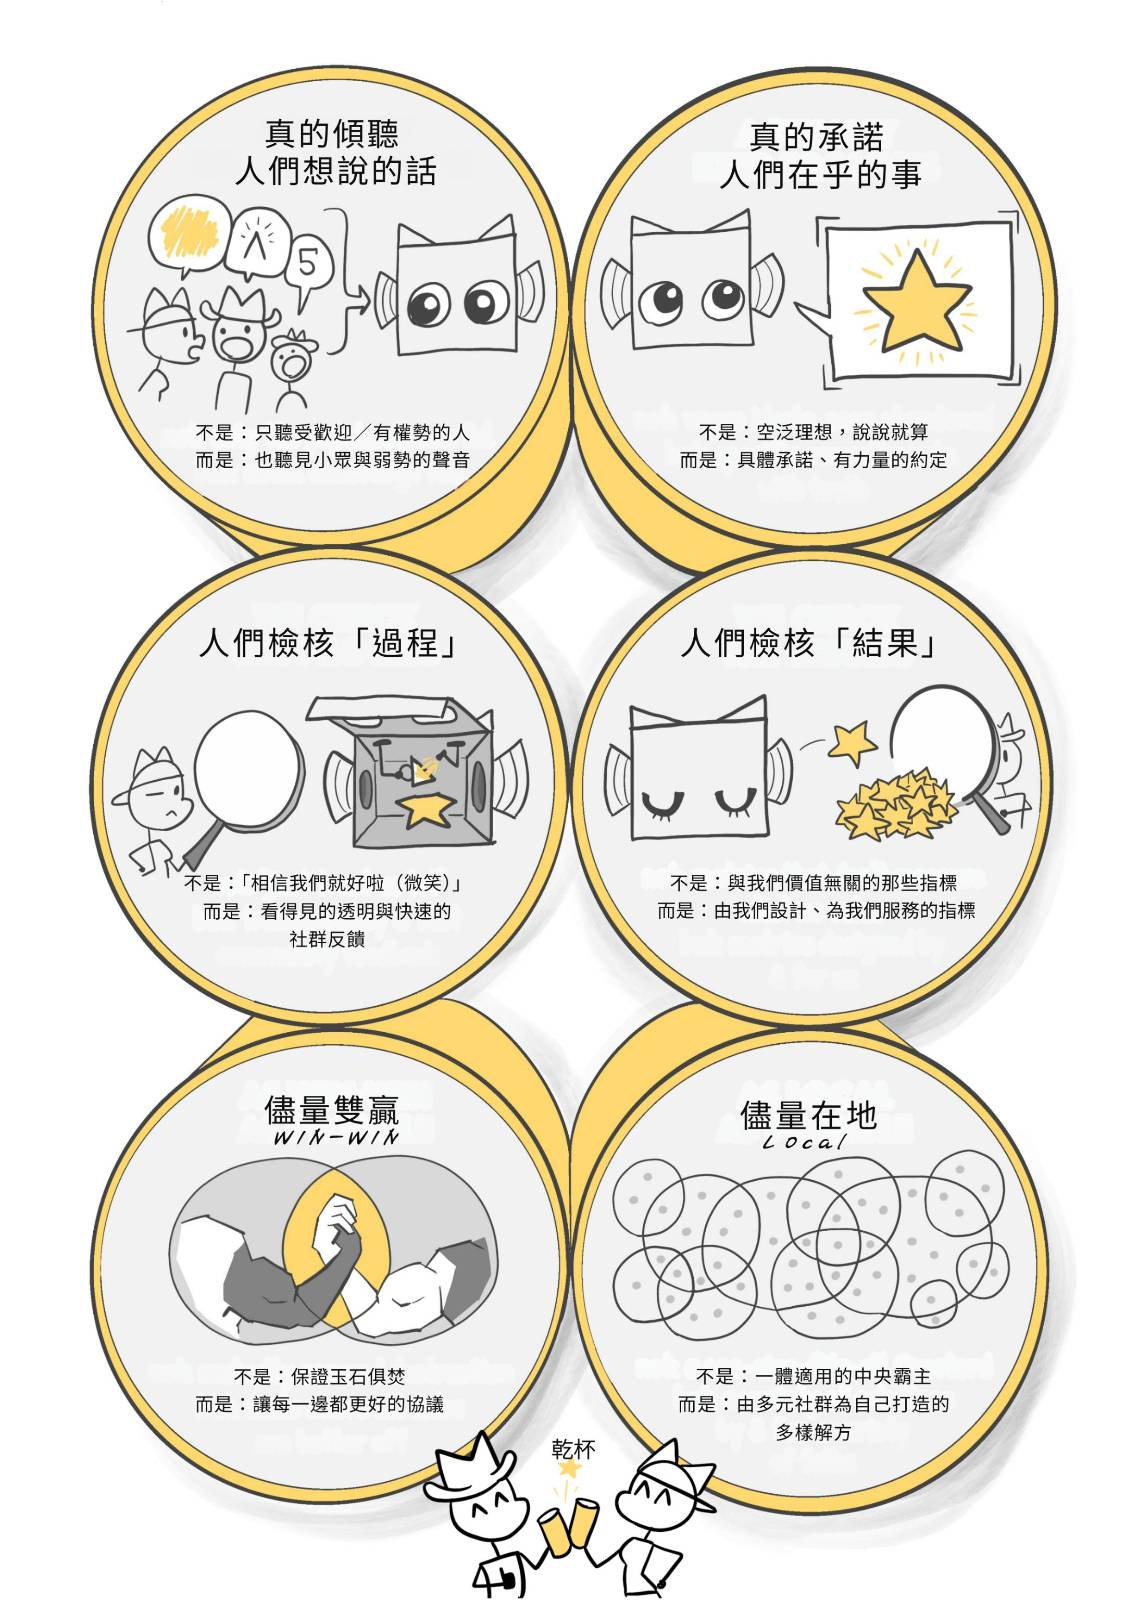
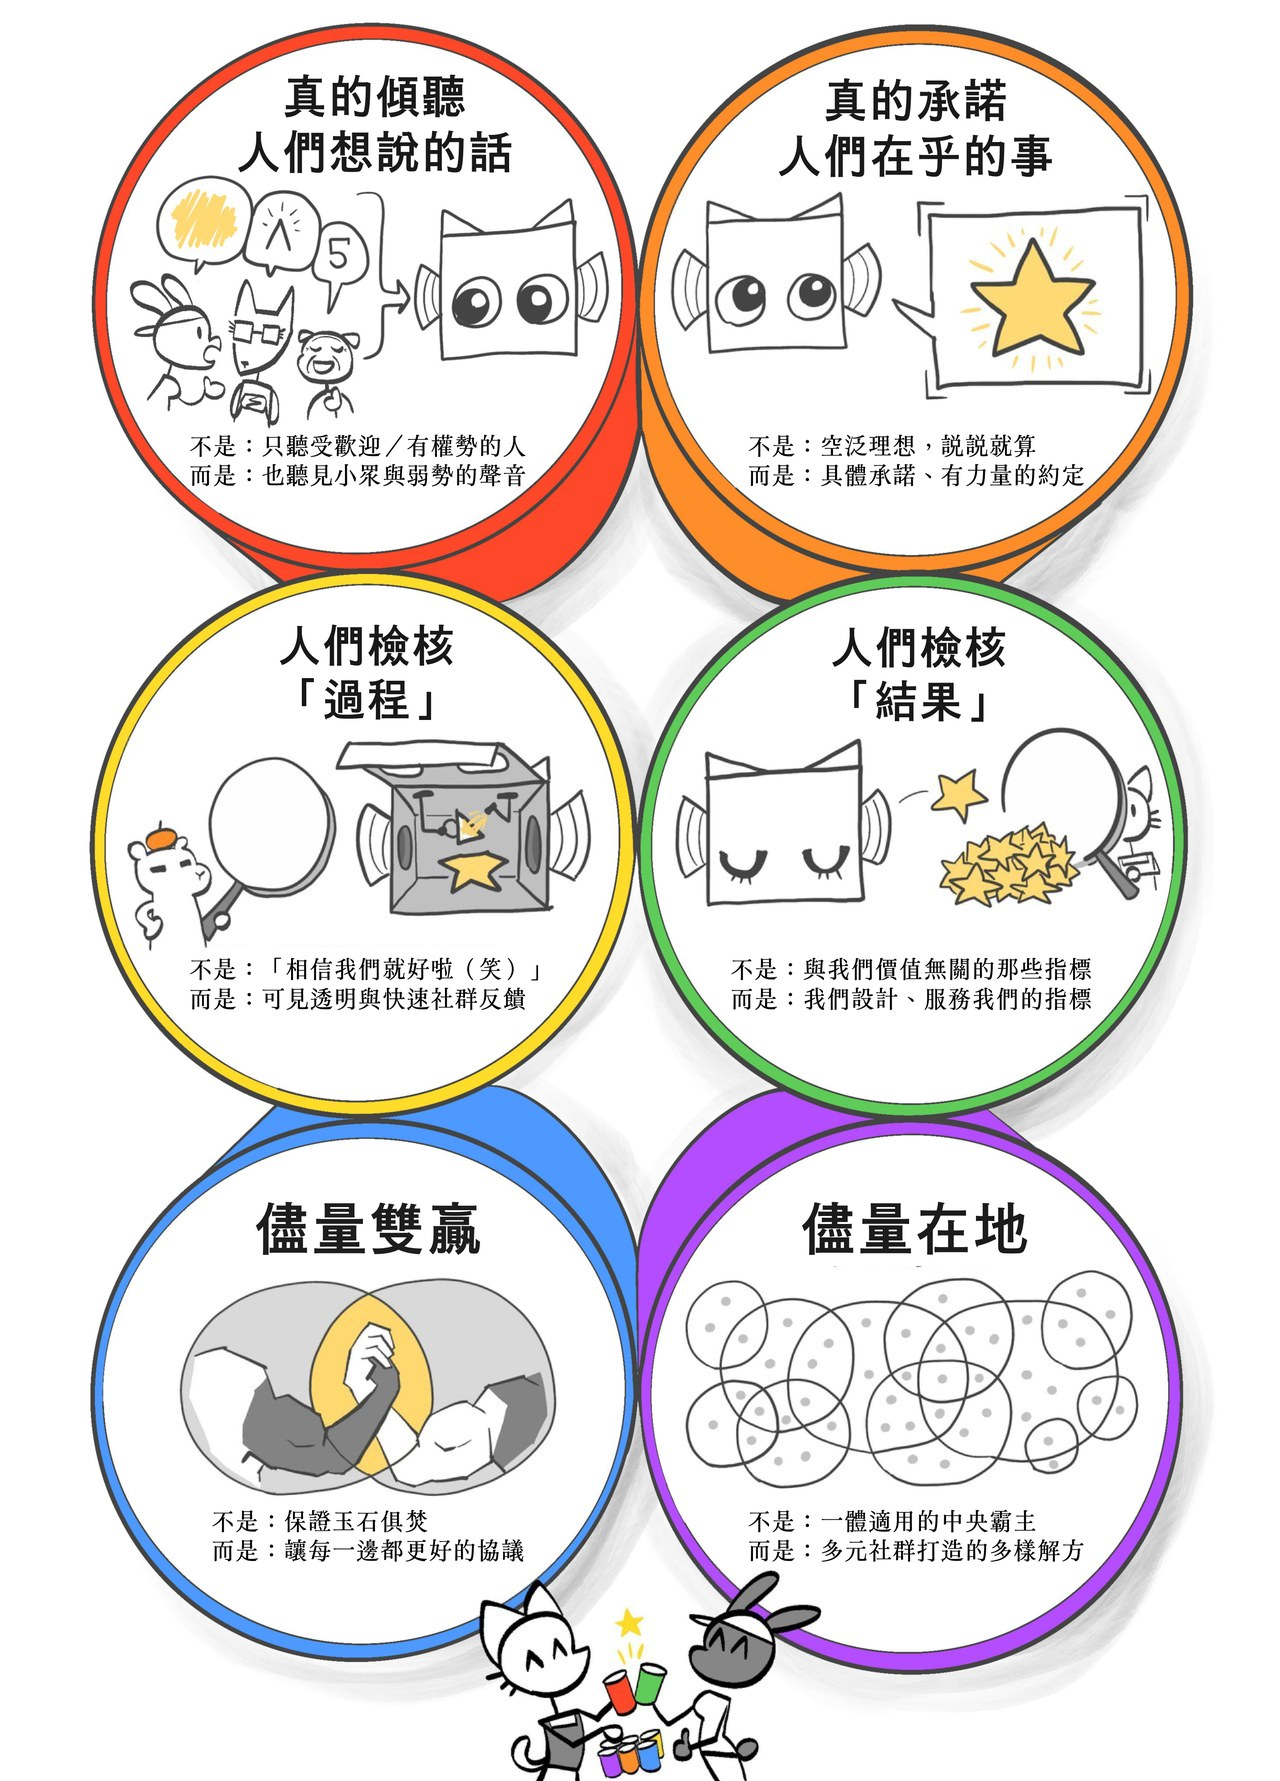
content(p3): use civic.ai's colour zh-TW artwork for the 6-Pack of Care
`media/p3/governance/6pack.jpg` was a near-greyscale 1131×1600 cut. civic.ai
ships the same Nicky Case illustration in colour with Traditional Chinese
labels as `overview-small-tw` (the artwork on civic.ai/tw/), 1280×1781.

Measured on a Hasler–Süsstrunk colourfulness index: 33.5 → 47.2, mean
saturation 0.055 → 0.073. Each of the six capabilities now reads in its own
colour — red 真的傾聽, orange 真的承諾, yellow 檢核「過程」, green 檢核「結果」,
blue 儀量雙贏, purple 儀量在地.

Alt text updated to the labels that are actually in the picture; it had
described the previous cut's wording. The 「我正在為唐鳳即將出版的書 6pack.care
做插圖」 caption stays accurate — same illustrator, same book.
Replaces the unreferenced `6pack.png` alongside it so the pair stays in sync.

diff --git a/p3/index.html b/p3/index.html
@@ -1318,7 +1318,7 @@
 </ul>
 </li>
 </ul>
-<p><img src="../media/p3/governance/6pack.jpg" alt="數位民主六力：廣泛傾聽、可信承諾、易於檢查、易於糾正、雙贏橋接解決方案、盡可能本地化"></p>
+<p><img src="../media/p3/governance/6pack.jpg" alt="關懷六力，六個彩色圓圈：真的傾聽人們想說的話、真的承諾人們在乎的事、人們檢核「過程」、人們檢核「結果」、儘量雙贏、儘量在地"></p>
 <p><i class="hanzi">（如果我可以自吹自擂一下</i>，我<i class="hanzi aside">正在為唐鳳即將出版的書 6pack.care 做插圖！所有漫畫都將獻給公共領域。）</i></p>
 <p>另一個想法：雖然「棍子」（罰款、處罰）是必要的，但我認為被忽視的是我們如何使用「蘿蔔」（市場誘因）來重新引導行業。正如<a href="https://en.wikipedia.org/wiki/Audrey_Tang">唐鳳</a>——臺灣數位部長，<a href="https://6pack.care/">6Pack.care</a> 的合著者——曾經解釋的：如果你在 9/11 <i class="hanzi">之前</i>成功倡導加固駕駛艙門，或在 Covid-19 之前改善生物安全，你的獎勵會是⋯⋯「什麼都沒發生」。沒有人關心沒有爆炸的炸彈。<sup class="footnote-ref"><a href="#fn85" id="fnref85">[85]</a></sup> 所以，如果你想讓你的 AI 對齊和治理想法<i class="hanzi">真正在現實生活中實施，而不只是在學術論文中</i>，你需要它在短期內就「看得到回報」。</p>
 <p>上面列出的許多 AI 安全解決方案可以有，或<i class="hanzi">已經有</i>，有利可圖的市場衍生品。（例子：<sup class="footnote-ref"><a href="#fn86" id="fnref86">[86]</a></sup>）</p>
